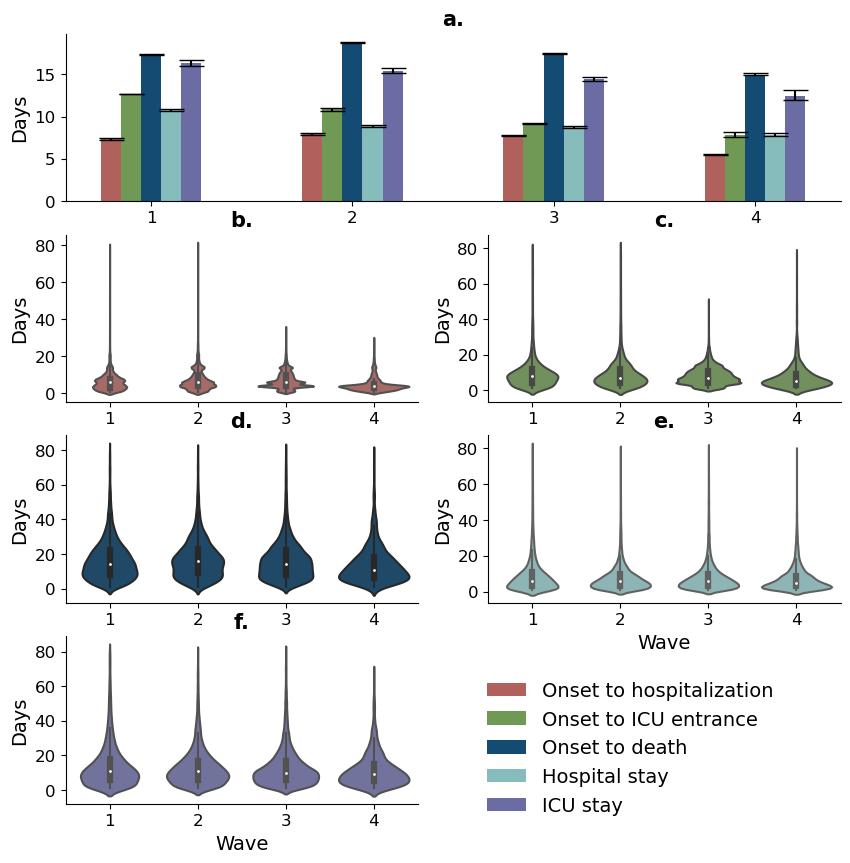
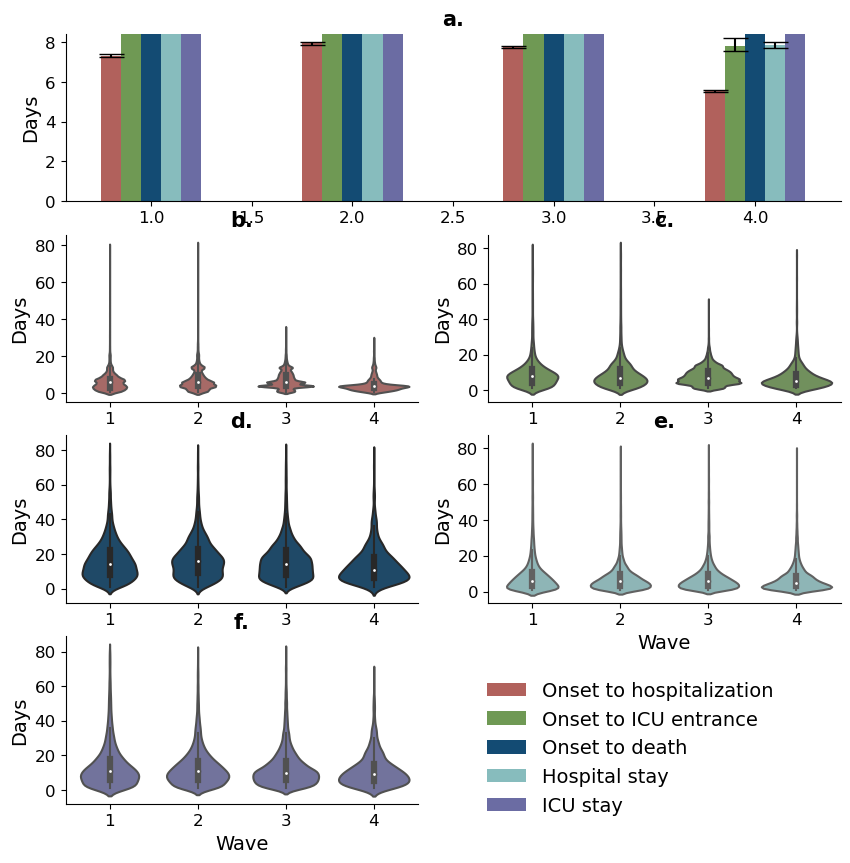
fix: scale and start point of y axis, fig 3

diff --git a/plots/results_epidemiological_distributions.py b/plots/results_epidemiological_distributions.py
@@ -40,6 +40,7 @@ dist_posteriors = ut.load_samples()
 # get best models
 df_best_models = ut.best_model()
 df_best_models = df_best_models.transpose()
+df_best_models_sum = pd.read_csv(OUT_PATH + "best_fit_summary.csv")
 
 ########################################################################
 # Plot CDFs
@@ -187,7 +188,6 @@ def plot_best_model_line(dist, ax, n, title):
     return ax
 
 def plot_best_model_bar(dist, ax, n, name_y, title):
-    df_best_models_sum = pd.read_csv(OUT_PATH + "best_fit_summary.csv")
     df_dist = df_best_models_sum[df_best_models_sum.dist == dist]
     df_dist = df_dist.set_index('stat')
     name = dist.replace('_', ' ')
@@ -216,14 +216,6 @@ def plot_violin(var, name_y, title, ax):
     df_best_models_sum = pd.read_csv(OUT_PATH + "best_fit_summary.csv")
     df_dist = df_best_models_sum[df_best_models_sum.dist == var]
     df_dist = df_dist.set_index('stat')
-    name = var.replace('_', ' ')
-    
-    mean, err = get_best_error(var)
-    
-    #ax.errorbar([1, 2, 3, 4], mean, 
-    #           ls = '', marker = '_', 
-    #            color = 'black')
-    #ax.set_yscale('log')
     df['wave'] = df['wave'].astype(int)
     sns.violinplot(data=df, x="wave", y=var, dodge=False, ax= ax, color = colors[n])
     ax.set_xlabel('Wave')
@@ -236,6 +228,7 @@ def plot_best_model_bar_all(dist, ax, w, n, title, wt=0.1):
     ax.bar([1+w, 2+w, 3+w, 4+w], mean, yerr = err, 
            width = abs(wt), 
            color = colors[n])
-    ax.xaxis.set_major_locator(MaxNLocator(integer=True))
+    #ax.xaxis.set_major_locator(MaxNLocator(integer=True))
+    ax.set_ylim([0,None])
     ax.set_title(title)
     ax.set_ylabel('Days')

diff --git a/plots/figure_3.py b/plots/figure_3.py
@@ -41,19 +41,6 @@ dist = 'icu_stay'
 red.plot_best_model_bar(dist, ax[4][0], 0, 'ICU stay', 'e.')
 red.plot_violin(dist, 'ICU stay', 'j.', ax[4][1])
 
-ax[0][0].set_yscale('log')
-ax[1][0].set_yscale('log')
-ax[2][0].set_yscale('log')
-ax[3][0].set_yscale('log')
-ax[4][0].set_yscale('log')
-
-import matplotlib.ticker as mticker
-ax[0][0].yaxis.set_minor_formatter(mticker.ScalarFormatter())
-ax[1][0].yaxis.set_minor_formatter(mticker.ScalarFormatter())
-ax[2][0].yaxis.set_minor_formatter(mticker.ScalarFormatter())
-ax[3][0].yaxis.set_minor_formatter(mticker.ScalarFormatter())
-ax[4][0].yaxis.set_minor_formatter(mticker.ScalarFormatter())
-
 ax[0][0].set_xlabel('')
 ax[0][1].set_xlabel('')
 ax[0][1].set_xlabel('')
